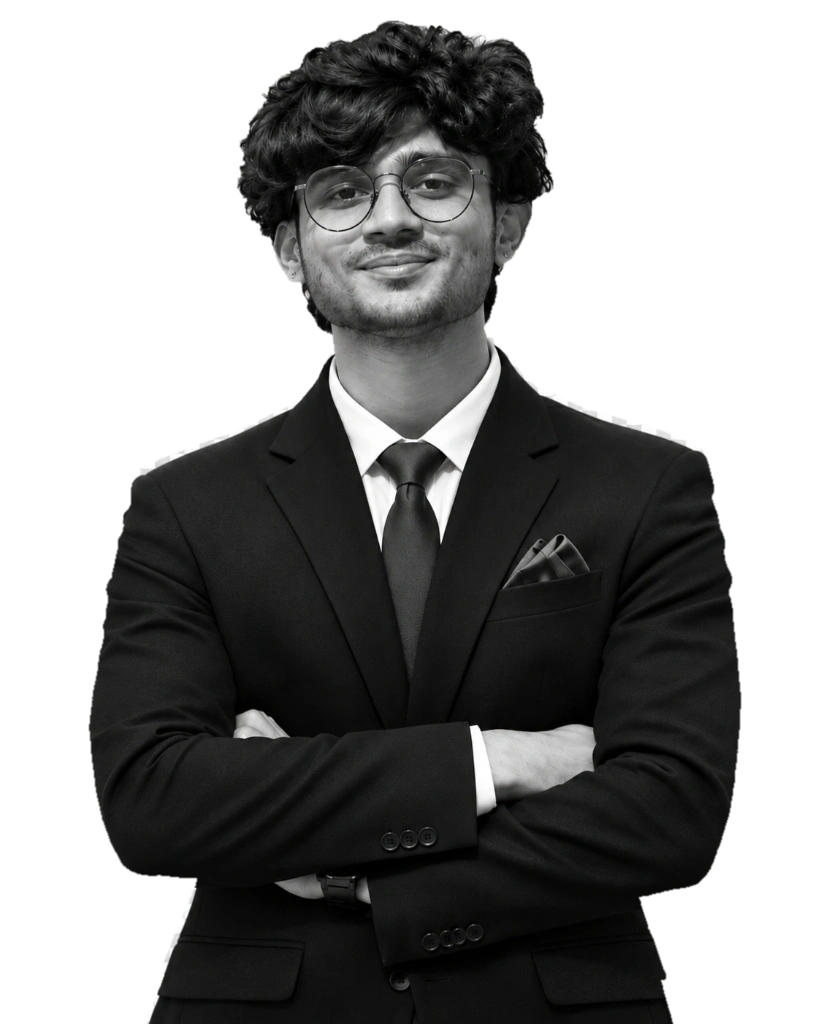
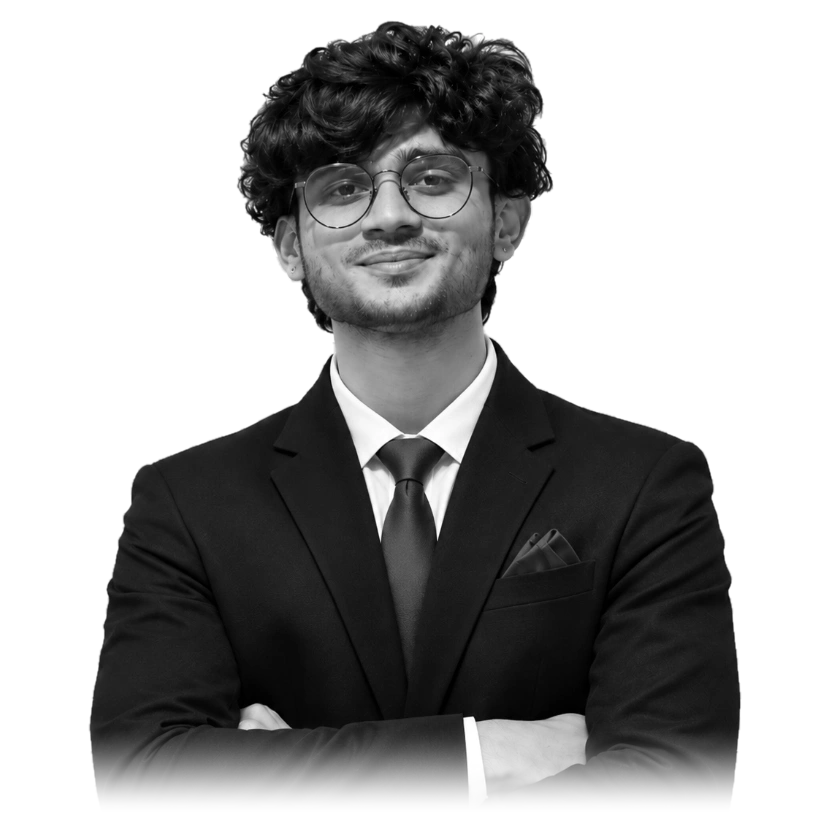
feat(hero): crop portrait to crossed hands with feathered background blend

diff --git a/src/components/sections/HeroCharacter.tsx b/src/components/sections/HeroCharacter.tsx
@@ -241,7 +241,7 @@ export function HeroCharacter() {
             rotateX: prefersReduced ? 0 : tiltX,
             rotateY: prefersReduced ? 0 : tiltY,
           }}
-          className="group relative w-full max-w-[420px] sm:max-w-[480px] lg:max-w-[520px] aspect-[819/1024] flex items-end justify-center cursor-pointer"
+          className="group relative w-full max-w-[420px] sm:max-w-[480px] lg:max-w-[520px] aspect-[819/815] flex items-end justify-center cursor-pointer"
           onClick={() => setIsCardOpen(true)}
           role="button"
           tabIndex={0}
@@ -253,8 +253,14 @@ export function HeroCharacter() {
           }}
           aria-label="Surya D character portrait. Hover to reveal color or click to open ability card."
         >
-          {/* Base Black & White Character Portrait */}
-          <div className="relative w-full h-full flex items-end justify-center overflow-hidden">
+          {/* Base Black & White Character Portrait with seamless background blend */}
+          <div
+            className="relative w-full h-full flex items-end justify-center overflow-hidden"
+            style={{
+              WebkitMaskImage: "linear-gradient(to bottom, black 84%, transparent 100%)",
+              maskImage: "linear-gradient(to bottom, black 84%, transparent 100%)",
+            }}
+          >
             <Image
               src="/images/character-bw.webp"
               alt="Surya D character portrait"
@@ -280,7 +286,7 @@ export function HeroCharacter() {
               e.stopPropagation();
               setIsCardOpen(true);
             }}
-            className="absolute left-[8%] bottom-[14%] sm:bottom-[16%] z-10 inline-flex items-center gap-2 min-h-[44px] px-4 py-2 rounded-full border border-white/20 bg-[#161414]/85 backdrop-blur-md text-[#F3EEEC] text-xs font-semibold tracking-wide shadow-[0_10px_24px_-12px_rgba(0,0,0,0.7)] hover:bg-[#1A1818] hover:border-white/40 hover:-translate-y-0.5 active:scale-95 transition-all duration-200 cursor-pointer focus-visible:outline-none focus-visible:ring-2 focus-visible:ring-accent"
+            className="absolute left-[6%] bottom-[4%] sm:bottom-[6%] z-10 inline-flex items-center gap-2 min-h-[44px] px-4 py-2 rounded-full border border-white/20 bg-[#161414]/85 backdrop-blur-md text-[#F3EEEC] text-xs font-semibold tracking-wide shadow-[0_10px_24px_-12px_rgba(0,0,0,0.7)] hover:bg-[#1A1818] hover:border-white/40 hover:-translate-y-0.5 active:scale-95 transition-all duration-200 cursor-pointer focus-visible:outline-none focus-visible:ring-2 focus-visible:ring-accent"
             aria-haspopup="dialog"
             aria-expanded={isCardOpen}
           >
